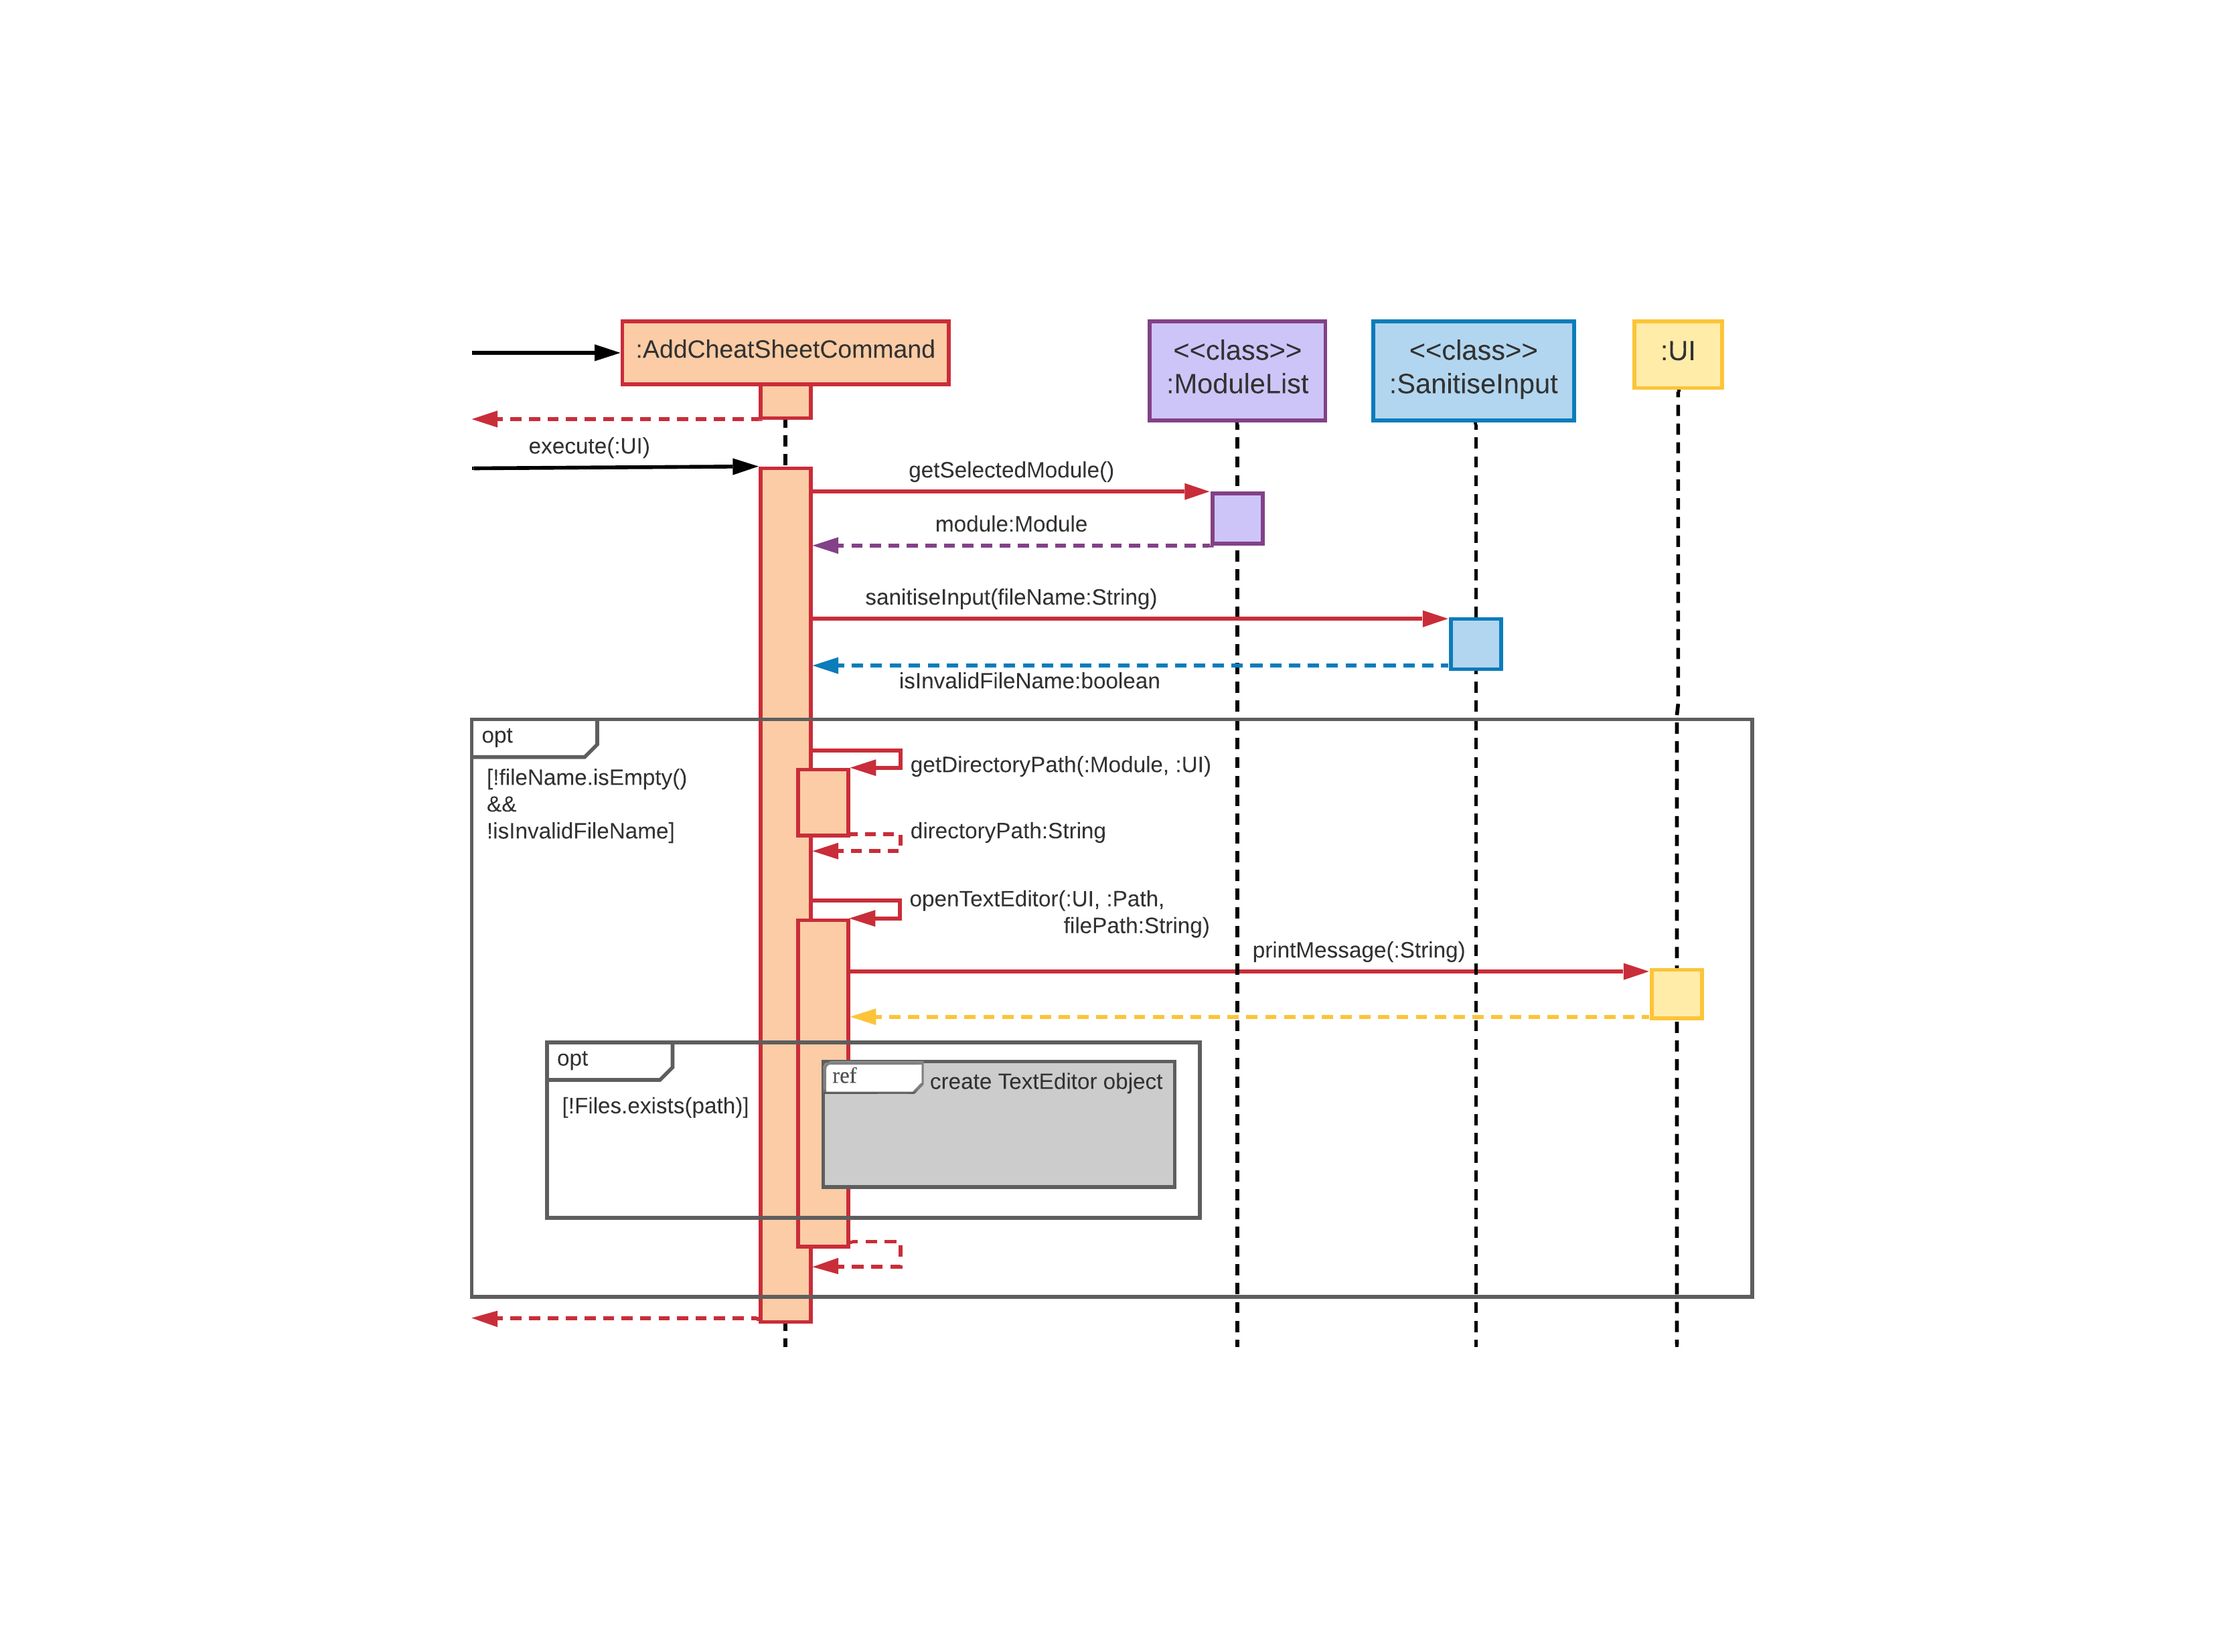
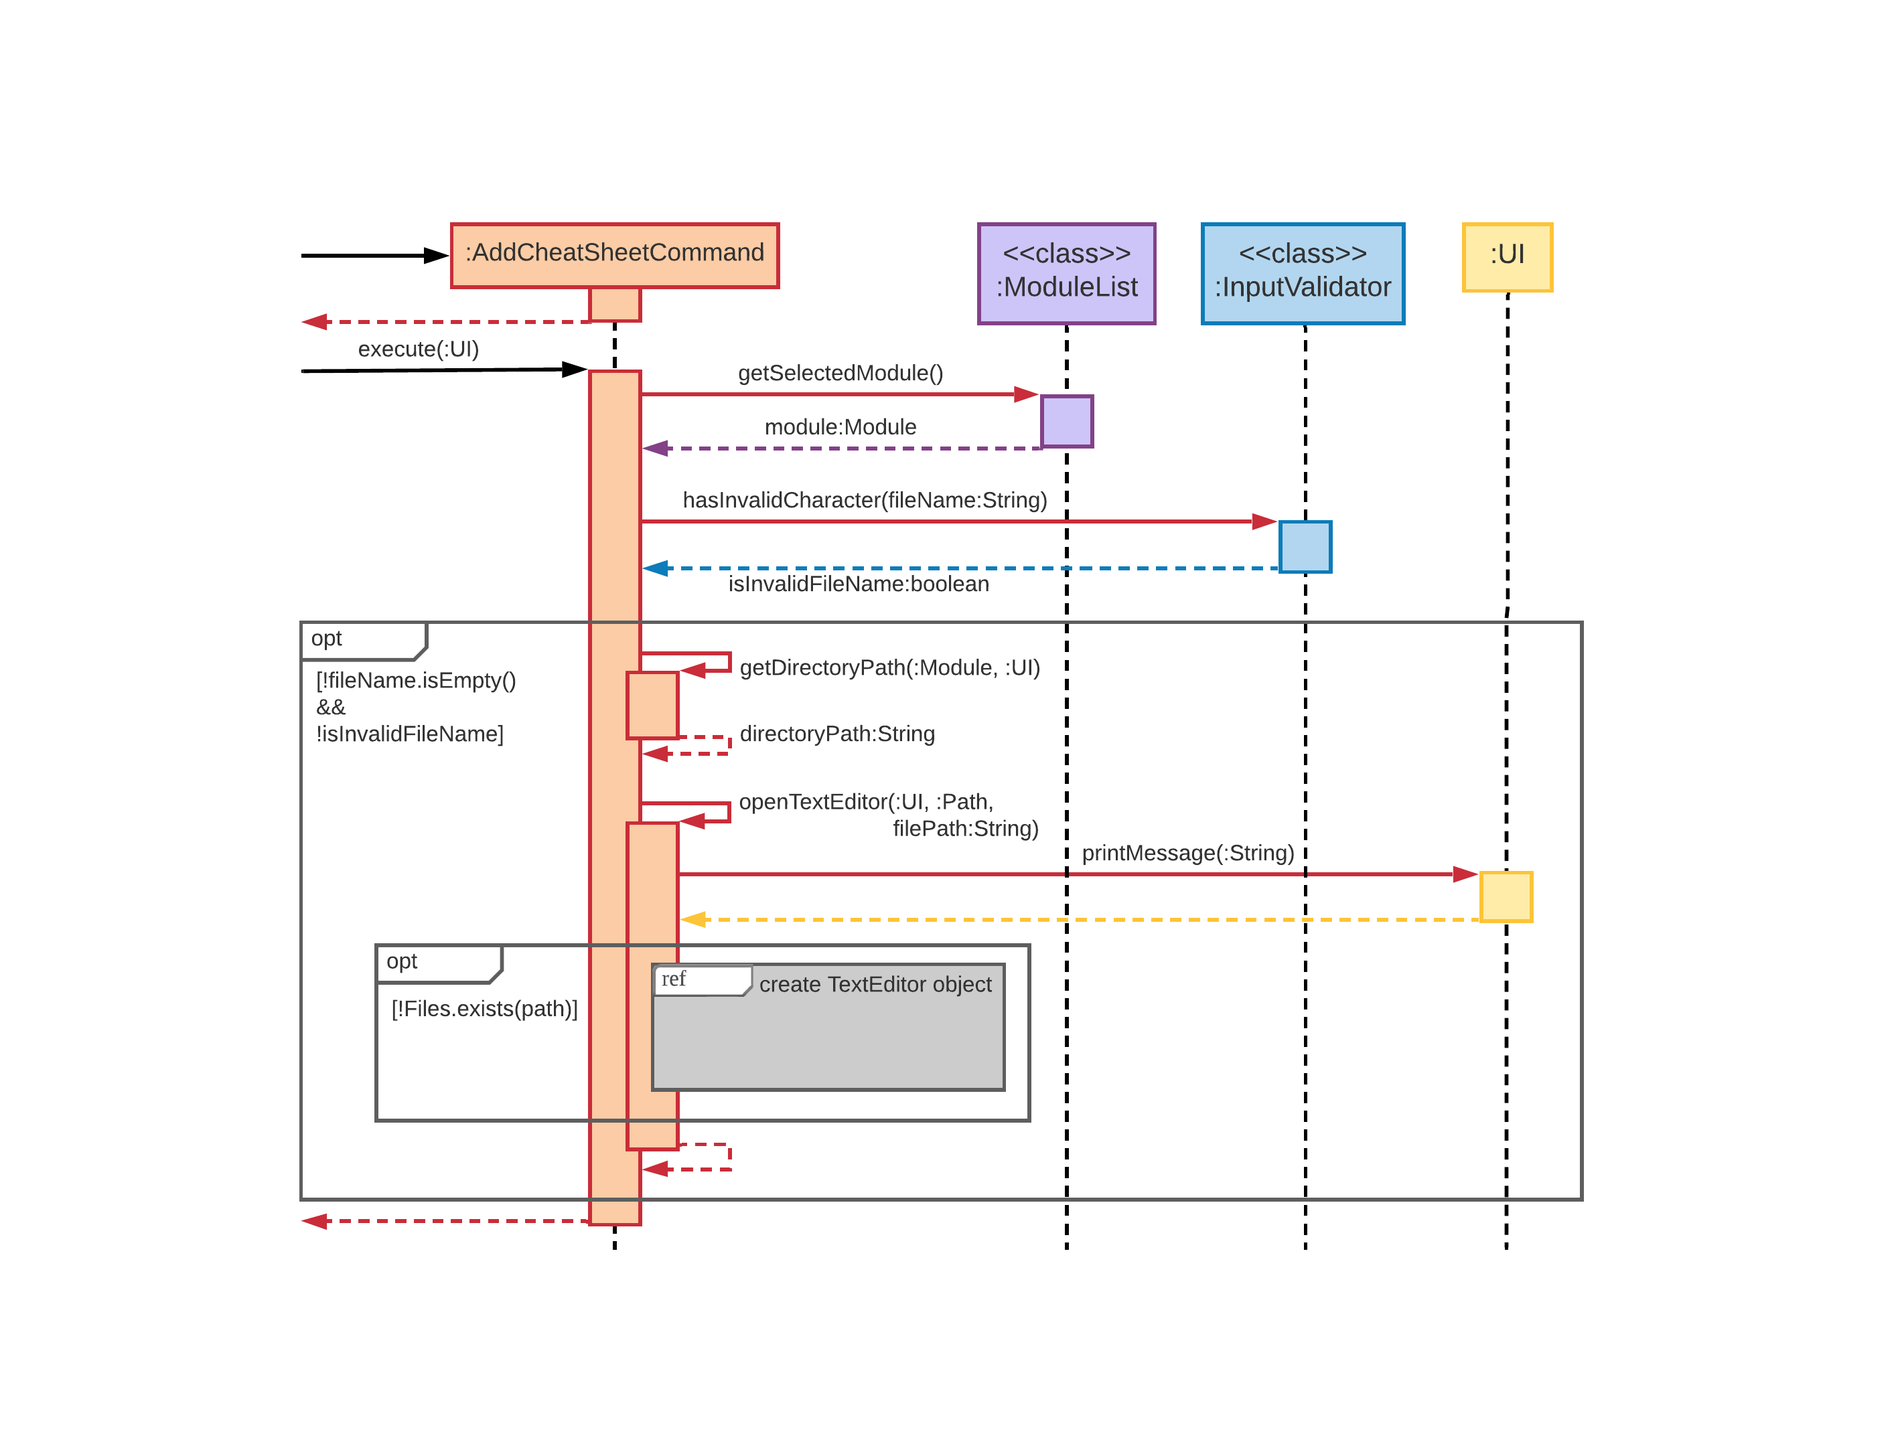
Edit AddCheatSheet sequence diagram, related classes (better naming)

Changed region(s): [[0.1551, 0.1547, 0.8375, 0.8661], [0.1551, 0.8042, 0.1861, 0.8661]]

diff --git a/src/main/java/seedu/duke/commands/AddCheatSheetCommand.java b/src/main/java/seedu/duke/commands/AddCheatSheetCommand.java
@@ -21,7 +21,7 @@ import static seedu.duke.common.Messages.MESSAGE_CHEATSHEET_ADDED;
 import static seedu.duke.common.Messages.MESSAGE_CHEAT_SHEET_ALREADY_EXISTS;
 import static seedu.duke.common.Messages.MESSAGE_CLOSE_CHEATSHEET_FIRST;
 import static seedu.duke.common.Messages.MESSAGE_INVALID_FILE_NAME;
-import static seedu.duke.common.InputValidator.isInvalidFileName;
+import static seedu.duke.common.InputValidator.hasInvalidCharacter;
 
 public class AddCheatSheetCommand extends Command {
     public static String fileName;
@@ -34,7 +34,8 @@ public class AddCheatSheetCommand extends Command {
     @Override
     public void execute(UI ui) throws CommandException {
         Module module = ModuleList.getSelectedModule();
-        if (fileName.isEmpty() || isInvalidFileName(fileName)) {
+        boolean isInvalidFileName = hasInvalidCharacter(fileName);
+        if (fileName.isEmpty() || isInvalidFileName) {
             throw new CommandException(MESSAGE_INVALID_FILE_NAME);
         }
         try {

diff --git a/src/main/java/seedu/duke/common/InputValidator.java b/src/main/java/seedu/duke/common/InputValidator.java
@@ -4,7 +4,7 @@ import java.util.ArrayList;
 
 public class InputValidator {
     //@@author H-horizon
-    public static boolean isInvalidFileName(String input) {
+    public static boolean hasInvalidCharacter(String input) {
 
         ArrayList<String> invalidCharacters = new ArrayList<>();
         initialiseInvalidCharactersList(invalidCharacters);
